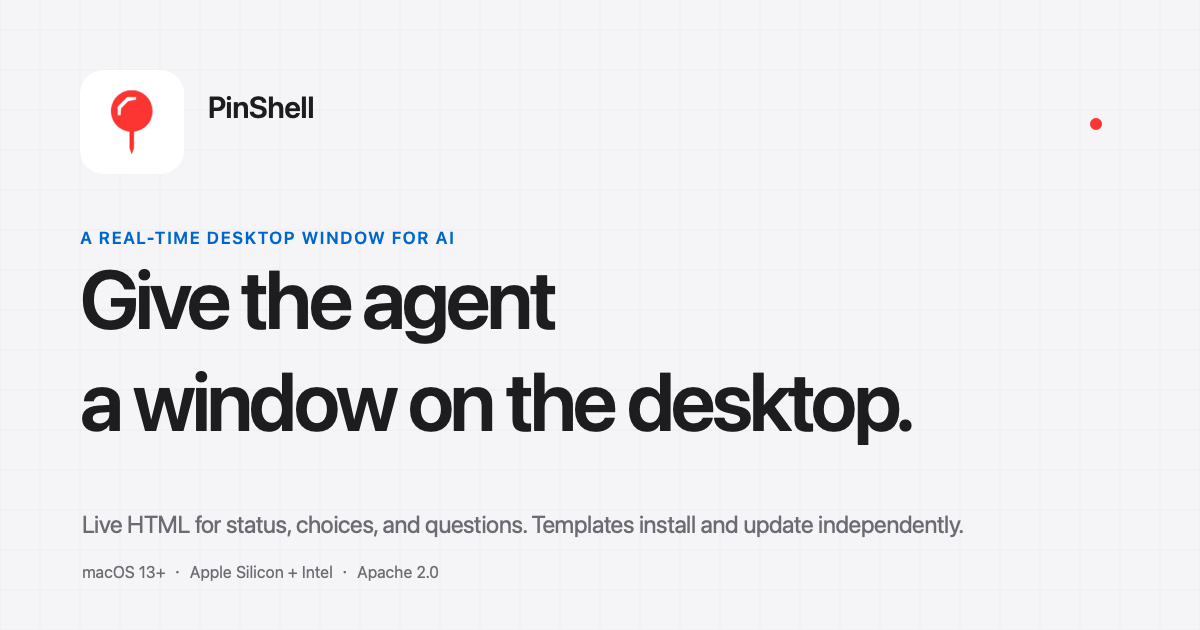
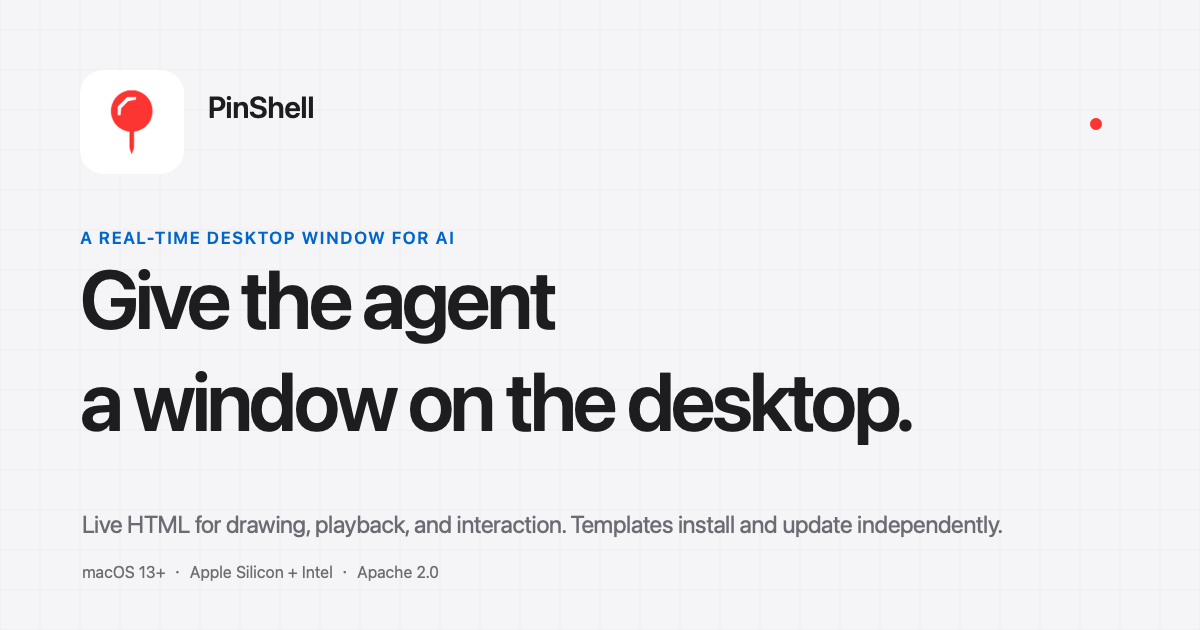
chore(website): refresh hero copy and demo task
Update the landing lead to drawing, playback, and interaction, swap the
demo task to fixing offline devices, and regenerate social share images.

Changed region(s): [[0.185, 0.8143, 0.8325, 0.8746]]

diff --git a/website/scripts/make_social_assets.swift b/website/scripts/make_social_assets.swift
@@ -134,8 +134,8 @@ private func drawOG(language: String) -> (NSSize) -> Void {
         title.draw(in: NSRect(x: 80, y: 148, width: 1040, height: 232))
 
         let subtitleText = isZH
-            ? "用 HTML 实时沟通、展示与提问。模板在线安装，独立更新。"
-            : "Live HTML for status, choices, and questions. Templates install and update independently."
+            ? "用 HTML 即时绘制、播放与交互。模板在线安装，独立更新。"
+            : "Live HTML for drawing, playback, and interaction. Templates install and update independently."
         let subtitle = NSAttributedString(
             string: subtitleText,
             attributes: [

diff --git a/website/src/pages/en/index.html b/website/src/pages/en/index.html
@@ -8,7 +8,7 @@
       <div class="hero-copy">
         <p class="eyebrow">PinShell for macOS</p>
         <h1>A real-time desktop window<br>built for AI.</h1>
-        <p class="lead">Give the agent a corner of the screen for live HTML: progress, choices, status, and questions. When the task ends, the window goes away.</p>
+        <p class="lead">Give the agent a corner of the screen for live HTML: drawing, playback, and interaction.</p>
         <div class="cta-row">
           <a class="button primary" href="{{DOWNLOAD_URL}}">Download for macOS</a>
           <a class="button secondary" href="templates/">Browse templates</a>

diff --git a/website/src/pages/zh/index.html b/website/src/pages/zh/index.html
@@ -8,7 +8,7 @@
       <div class="hero-copy">
         <p class="eyebrow">PinShell for macOS</p>
         <h1>为 AI 打造的<br>实时桌面窗口。</h1>
-        <p class="lead">让 Agent 在你屏幕的一角，用 HTML 实时沟通、展示与提问。任务结束，窗口即收起。</p>
+        <p class="lead">让 Agent 在你屏幕的一角，用 HTML 即时绘制、播放与交互。</p>
         <div class="cta-row">
           <a class="button primary" href="{{DOWNLOAD_URL}}">下载 for macOS</a>
           <a class="button secondary" href="templates/">浏览模板库</a>

diff --git a/website/src/partials/hero-agent.en.html b/website/src/partials/hero-agent.en.html
@@ -35,7 +35,7 @@
     </div>
     <ul class="agent-tasks">
       <li class="is-done"><span class="agent-check">✓</span><span>Review notes</span></li>
-      <li class="is-done"><span class="agent-check">✓</span><span>Fix login timeout</span></li>
+      <li class="is-done"><span class="agent-check">✓</span><span>Fix offline devices</span></li>
       <li class="is-active"><span class="agent-check"></span><span>Write weekly report</span></li>
     </ul>
     <div class="agent-progress"><i></i></div>

diff --git a/website/src/partials/hero-agent.zh.html b/website/src/partials/hero-agent.zh.html
@@ -35,7 +35,7 @@
     </div>
     <ul class="agent-tasks">
       <li class="is-done"><span class="agent-check">✓</span><span>产品评审纪要</span></li>
-      <li class="is-done"><span class="agent-check">✓</span><span>修复登录超时</span></li>
+      <li class="is-done"><span class="agent-check">✓</span><span>修复设备离线</span></li>
       <li class="is-active"><span class="agent-check"></span><span>写周报</span></li>
     </ul>
     <div class="agent-progress"><i></i></div>
